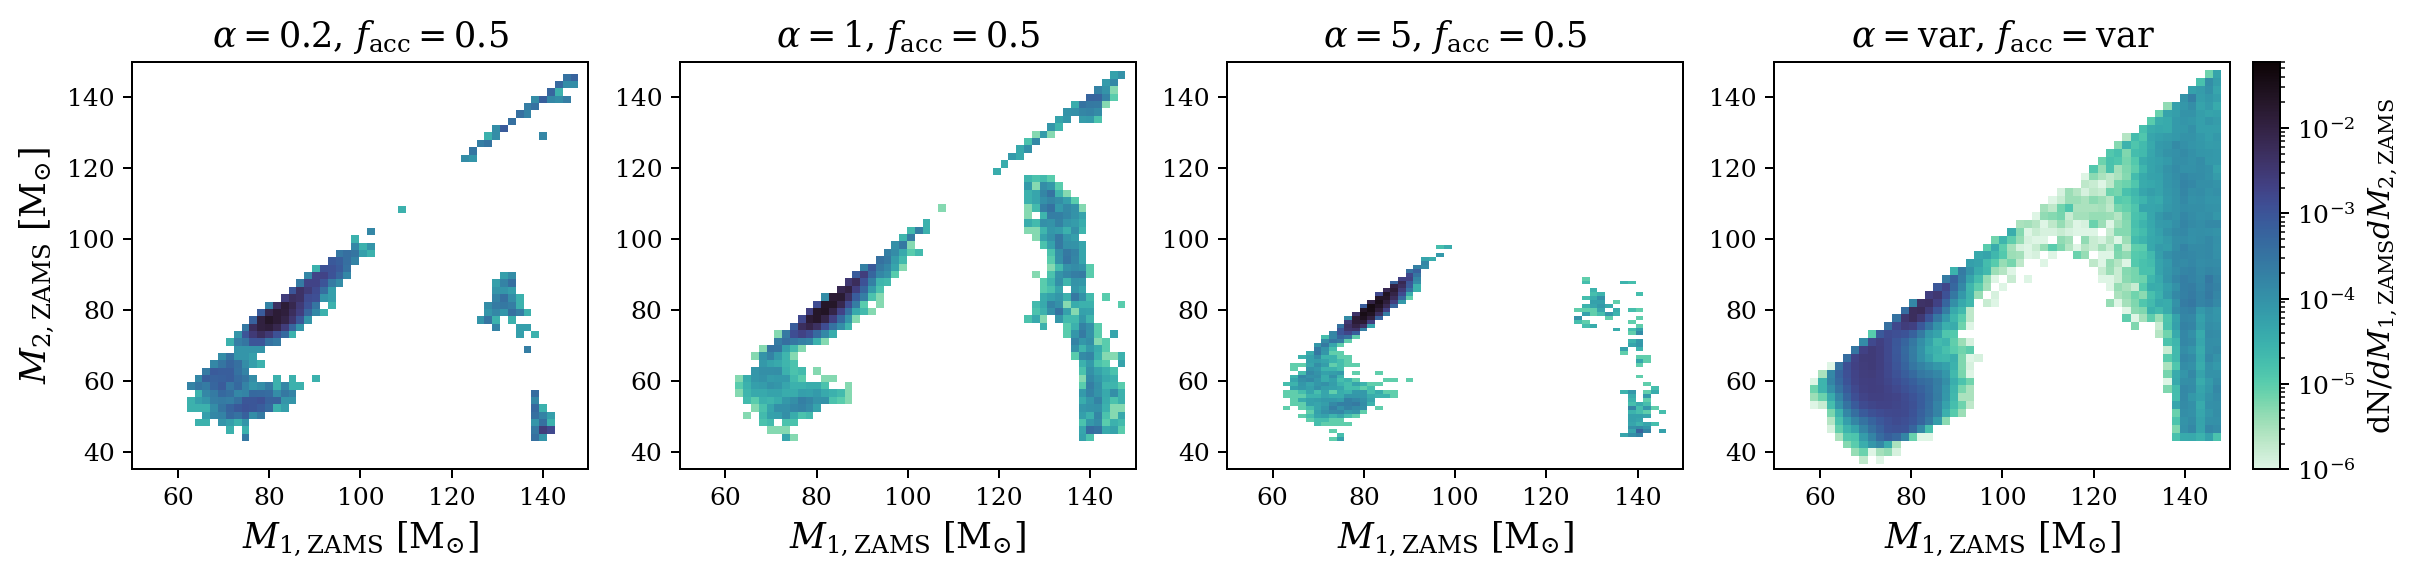
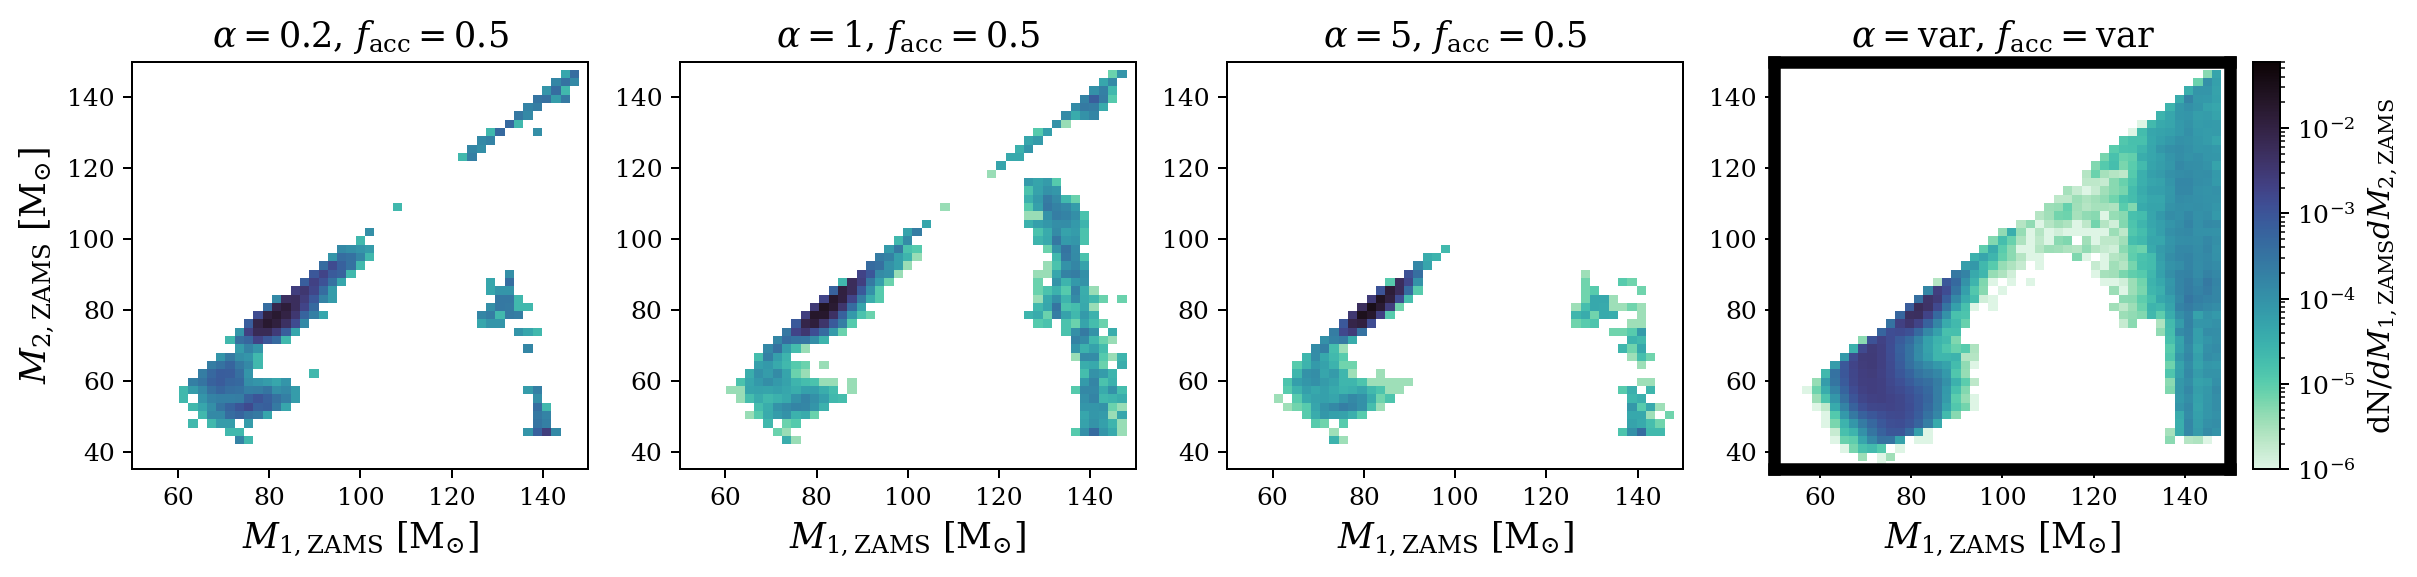
Merging in Katie's edits and Will's line-breaks.

diff --git a/src/ms.tex b/src/ms.tex
@@ -26,6 +26,7 @@
 \flatiron
 
 \author{Katelyn Breivik}
+\email{kbreivik@flatironinstitute.org}
 \flatiron
 
 \author{Will M. Farr}
@@ -74,9 +75,9 @@ systems, globular clusters, nuclear star clusters, AGN disks, and more
 population is studied through a Monte-Carlo approach.  Using theoretically
 motivated distributions of initial parameters (age, metallicity, masses, orbital
 separations, eccentricities, etc), initial populations are evolved with fixed
-astrophysical assumptions (population synthesis parameter settings)to produce a
-synthetic catalog of mergers which can be compared of observations from
-ground-based GW detectors.
+astrophysical assumptions (population synthesis parameter settings) to produce a
+synthetic catalog of mergers which can be compared to observations from
+GW detectors.
 
 
 
@@ -168,8 +169,9 @@ the implications of this work and future direction in Sec.
 \section{Method}
 \label{sec:method}
 
-We define the parameters that describe the progenitor's zero age main sequence (ZAMS) properties
-masses and eccentricity as progenitor parameters $\bm{\theta'}$, the parameters
+
+We define the progenitor's zero age main sequence (ZAMS) properties like
+mass, orbital period, and eccentricity as progenitor parameters $\bm{\theta'}$, the parameters
 that control different uncertain physical prescriptions such as wind strength and common
 envelope efficiency as hyperparameters $\bm{\lambda}$, and random variables
 that affect certain stochastic process such as whether CO natal kick unbinds a
@@ -279,7 +281,7 @@ check whether the KL divergence varies significantly. A varying KL divergence me
 to randomness in the evolution of the progenitor, and extra caution should be used when interpreting the result.
 
 
-\section{Result}
+\section{Results}
 \label{sec:result}
     
 \begin{table*}[hbt!]
@@ -337,14 +339,15 @@ the eccentricity $e$, the metallicity $Z$ at ZAMS. Note that the progenitor form
 obtained through the root-finding process because the formation redshift does not intrinsically affect 
 the evolution of the binary. Instead, we compute the time it takes for the binary to evolve from 
 formation to the merger and add this time back to the lookback time when a GW event is observed and limit the total 
-time to merger to by less than $13.7\,\rm{Gyr}$.
+time to merger to be less than $13.7\,\rm{Gyr}$.
 Using the total lookback time, we can compute the redshift of the binary at ZAMS formation following the 
-\kw{cite Planck 18} cosmological model.
-The main benefit of post-processing the redshift in this way is we do not rely on a particular assumption
+Planck 2018 cosmological model \citep{Planck2018}.
+The main benefit of post-processing the redshift in this way is that we do not rely on a particular assumption
 of star formation rate (SFR) distribution when we solve for the posterior distribution in redshift.
 This means we can put the prior on formation redshift (or in general, metallicity-redshfit distribution) in
 by reweighting the posterior distribution according to a particular SFR model,
-therefore we do not have to rerun the inference everytime we change the SFR model.
+\kb{and} therefore do not have to rerun the inference everytime we change the SFR model. This is especially helpful
+since SFR models are still highly uncertain but strongly impact the local merger rates of BBHs \citep{Broekgaarden2021}.
 For hyperparameters, we choose parameters that affect 
 binary evolution in \texttt{COSMIC} mostly significantly for massive stars, including the common envelope 
 efficiency $\alpha$, the fraction of mass accreted onto the accretor during stable mass transfer $f_{\rm acc}$, 
@@ -354,11 +357,53 @@ $q_{\rm crit,3}$, and the root-mean-square of the Maxwellian distribution
 employed for CO natal kicks, $\sigma$. 
 
 We show a portion of the joint posterior of the progenitor parameters 
-and hyperparameters of GW150914 in figure \ref{fig:GW150914_posterior}.
-\kb{We need to describe the interpretation of this as well.}
-\kw{I think we can just hightlight the fact that we have three kinds of correlation, progenitor-hyper, progenitor-hyper, hyper-hyper,
-since the implication is related to figure @Katie made.}
-\kb{Need to describe the formation channels and gaps here.}
+and hyperparameters of GW150914 in figure \ref{fig:GW150914_posterior}. 
+Each panel is colored based on the comparison between progenitor parameters (blue), hyperparameters (orange), or 
+a mix of the two (green). 
+We find that the choice for $\sigma$ does not affect the formation of GW150914-like BBHs. This is not unexpected 
+since we use the \citet{Fryer2012} delayed model which reduces the natal kick strength at BH formation based on the amount
+of fallback onto the proto-CO. In the case of GW150914-like BBHs, the BH progenitors are massive enough that the 
+fallback reduces the natal kick to zero. Because of this we do not include $\sigma$ in Figure~\ref{fig:GW150914_posterior}.
+Similarly, we do not include the ZAMS orbital period and eccentricity are correlated with one another, but not strongly with the other progenitor
+parameters or hyperparameters. We find strong correlations in the ZAMS masses, as well as 
+strong correlations between $M_{2,\rm{ZAMS}}$ and $f_{\rm{acc}}$ and $f_{\rm{acc}}$ and $\alpha$. We show scatter points of each of these 
+combinations in the upper-right inset of the figure.
+
+The correlations between the ZAMS masses are similar to those found by A21 with the majority of the population preferring primary 
+and secondary masses between $60--90\,M_{\odot}$. However, we also find some ZAMS masses which extend up to $150\,M_{\odot}$ which 
+is the limit imposed by our assumptions. We explore the formation scenarios which lead to successful GW150914-like mergers and those 
+which fail to produce GW150914-like mergers below in Figure~\ref{fig:compare_fixed_variable}.
+
+The correlations between $M_{2,\rm{ZAMS}}$ and $f_{\rm acc}$ illustrate the variety of ways which GW150914-like mergers can be produced.
+For binaries with $M_{2,\rm{ZAMS}} < 70\,M_{\odot}$, we find that accretion efficiencies of $f_{\rm acc} > 0.5$ 
+are preferred. One reason for this is based on the requirement that the total mass in the binary must remain above the 
+total mass of GW150914 and strongly non-conservative mass transfer (i.e. $f_{\rm acc} > 0.5$) reduces the total 
+mass of the system. A compounding factor is that as mass leaves the binary due to non-conservative mass transfer, the 
+evolution of the binary's orbit is less dramatic and leads to wider binaries on average and thus fewer mergers in a Hubble time.
+For binaries with $M_{2,\rm{ZAMS}} \sim 80\,M_{\odot}$, $f_{\rm acc}$ is less constrained. This is because of a preference for 
+these secondaries to also have primary masses near $ 80\,M_{\odot}$ and thus enter a double-core common envelope evolution in 
+which both stars' envelopes are ejected, leaving behind two stripped helium cores in a tight orbit. In this case, $f_{\rm acc}$ 
+does not affect the binary evolution and is thus unconstrained. This effect can also be seen in the ZAMS mass and $q_{\rm crit 3}$ 
+panels for masses near $80\,M_{\odot}$ because double-core common-envelope evolution is triggered in \texttt{COSMIC} when the
+radii of the two stars touch due to the rapid expansion of the primary star upon helium ignition. In this case, the choice for 
+Roche-overflow mass transfer to proceed stably (as prescribed by $f_{\rm{acc}}$) or unstably (as prescribed by $\alpha$) using 
+$q_{\rm crit, 3}$ is totally irrelevant, and thus unconstrained. Finally, for binaries with $M_{2,\rm{ZAMS}} > 80$, we find that 
+$f_{\rm acc}$ is correlated to decrease with increasing mass. This is due to limits on the total mass which must be ejected from 
+the binary to produce BH masses that match GW150914. Binaries with both component masses near $150\,M_{\odot}$ must either go 
+through a common envelope evolution (in which case $f_{\rm acc}$ is unconstrained), or very non-conservative mass transfer 
+(where $f_{\rm acc}$) is low, to produce BBHs with the proper mass.
+
+Finally, we find that $\alpha$ and $f_{\rm acc}$ are largely uncorrelated, though there exists independent trends in each hyper parameter.
+This is not totally unexpected since the physical processes which are described by each hyperparameter, i.e. stable Roche-lobe overflow and 
+common envelope evolution are two independent channels. Generally, we find that GW150914-like BBHs tend to prefer larger accretion efficiencies 
+and have common envelope ejection efficiencies peaking near $\alpha=1$. One shortcoming of our method implementation is the application of a single 
+hyper parameter for $f_acc$ and $\alpha$ for each binary, while both the primary and the secondary star could in principle be defined by their own 
+hyperparameters that prescribe the outcomes for when each star fills it's Roche lobe. We reserve full treatment of this for future work but note 
+that this improvement could reveal correlations between hyperparameters that are not present in our current analysis.
+%\kb{We need to describe the interpretation of this as well.}
+%\kw{I think we can just hightlight the fact that we have three kinds of correlation, progenitor-hyper, progenitor-hyper, hyper-hyper,
+%since the implication is related to figure @Katie made.}
+%\kb{Need to describe the formation channels and gaps here.}
 
 \begin{figure*}[h]
     \includegraphics[width=\textwidth]{static/GW150914_corner_zoomed_lowres.png}
@@ -383,16 +428,22 @@ since the implication is related to figure @Katie made.}
 % \kw{Talk about implication on single event posterior.}
 Once we obtain a set of binaries which successfully map the ZAMS parameters and hyperparameters to BBH merger masses, 
 we re-evolve the set of ZAMS parameters with the same physical assumptions as A21, but vary the common envelope efficiency 
-to explore how keeping a fixed model which only varies one hyper-parameter affects our analysis. 
+to explore how keeping a fixed model which only varies one hyper-parameter contrasts to our results. 
 Figure~\ref{fig:compare_fixed_variable} shows the distribution of ZAMS masses for three models (first through third columns), 
-each with a different $\alpha$ but the same hyperparameters as A21, 
-as well as the results of our sampling which allows our hyperparameters to vary (fourth column). We find that holding the accretion 
-efficiency, common envelope and natal kick physics to fixed values greatly reduces the ZAMS parameter space 
-that produces GW150914-like mergers. In contrast, by allowing the hyperparameters to fully span the model uncertainty, we 
+each with a different $\alpha$ but the same hyper-parameters as A21, 
+as well as the results of our sampling which allows our hyper-parameters to vary (fourth column). We find that holding the accretion 
+efficiency, $f_{\rm{acc}}$, and common envelope ejection efficiency, $\alpha$, to fixed values greatly reduces the ZAMS parameter space 
+that produces GW150914-like mergers. In contrast, by allowing the hyper-parameters to fully span the model uncertainty, we 
 find that there are distinct ZAMS parameters which produce GW150914-like mergers and conversely, ZAMS parameters which 
-fail to produce GW150914-like mergers \emph{regardless of our hyper-parameter choice.}
-\kw{@Katie, can you put a frame around the fourth column highlighting it is this work?}
-
+fail to produce GW150914-like mergers \emph{regardless of our hyper-parameter choice.} For primary ZAMS masses between 
+$\sim95-135\,M_{\odot}$ and secondary ZAMS masses between $\sim50-95\,M_{\odot}$, we find that there is no combination of accretion
+efficiency and common envelope ejection efficiency which produces merging BBHs that have masses consistent with GW150914's posteriors.
+In this region, if BBHs with masses consistent with GW150914's masses are produced through a combination of $\alpha$ and 
+$f_{\rm{acc}}$, they do not merge in a Hubble time. Conversely, in the region of the fourth column of Figure~\ref{fig:compare_fixed_variable}
+which does produce GW150914-like mergers, the combination of $\alpha$, $f_{\rm{acc}}$, and the ZAMS masses and orbital separations 
+balance to produce BHs with the correct masses that merge within a Hubble time.
+%\kw{@Katie, can you put a frame around the fourth column highlighting it is this work?}
+%\kb{done!}
 
 
 \begin{figure*}
@@ -410,8 +461,6 @@ In particular, we compute KL divergence of the samples obtained from root-findin
 For GW150914, the KL divergence between the reprojected posterior and the original posterior is \kw{fill later} nats on average if we use the root-finding result alone,
 whereas the MCMC result has a higher KL divergence at \kw{fill} nats.
 The KL divergence stays stable for reprojecting with different random seeds. 
-\kb{Can we show this in the figure somehow? Maybe like KL divergence as a function of reprojection number as a lower small panel?}
-\kw{The problem with that is it is basically one dot or a flat line, which is very unentertaining. I wouldn't necessarily want to make a figure out of the KL divergence just because it is pretty boring and distracting.}
 In fig.\ref{fig:GW150914_reprojection}, we can see the reprojected posterior from both the root-finding process alone and the MCMC result agrees well with the original posterior,
 even though the agreement between the MCMC result and the original posterior is not perfect. 
 This degradation of the agreement comes from the fact that we are using a KDE to estimate the posterior density in the observable space.
@@ -445,7 +494,8 @@ which can lead to a final system either with or without a merger event randomly,
 so the reprojected posterior may not agree with the original posterior in the observable space consistently, hence yielding a higher KL divergence on average.
 On the other hand, \texttt{COSMIC} struggles to produce events above the pair instability supernova mass cutoff $m_{1,{\rm GW}}$,
 so the posterior in the evolutionary parameter space only correspond part of the posterior in the observable space, therefore events beyond the PISN mass gap has higher KL divergence.
-Events with more extreme mass ratios are not likely to be recovered by the method. \kw{@Katie gives reason?}
+Events with more extreme mass ratios are not likely to be recovered by the method. This could be due to our method assuming a single value for $f_{\rm acc}$ and $\alpha$ as discussed 
+in Section~\ref{sec:result}.
 
 The point of figure \ref{fig:GWTC3_f_acc_mass} is to show this method could in principal reveal the correlation between progenitor parameters and hyperparameters on a population level.
 A careful treatment of all event in the catalog and discussion related the physical implication of figure \ref{fig:GWTC3_f_acc_mass} is beyond the scope of this paper,
@@ -477,14 +527,16 @@ In this work we first showcase the power of the proposed method with GW150914.
 We show the joint posterior of the two events' progenitor parameters and hyperparameters.
 In particular, to the authors' knowledge, this is the first time the correlation between progenitor parameters and hyperparameters is explored.
 Our work is not only a more efficient way to study GW events' progenitors,
-but also allows the possibility of measuring the astrophysics related the binary evolution, especially in capturing the correlation between different hyperparameters.
+but also allows the possibility of measuring the astrophysics related the binary evolution, especially in capturing the correlation between different hyperparameters. 
+In future work, we will extend our method to applying hyperparameters to individual binary components in order to better capture correlations between 
+hyperparameters and progenitor parameters. 
 
 To further illustrate the power of the method, we show the inferred fraction of accretion during SMT depends on the progenitor masses.
 The most obvious advantage our method provides is it returns the joint posterior distribution of progenitor parameters and hyperparameters for each event.
 This enables a data-driven way to study the distribution of hyperparameters,
 i.e. once we have a catalog of events, each has their own set of posterior in the hyper-parameter space,
 we can employ common techniques such as hierarchical Bayesian analysis to fit a population model to the distribution of hyperparameters,
-without making specific assumptions such as fixing the hyperparameters for all types of event.
+without making specific assumptions such as fixing the hyperparameters for all types of event. 
 
 % Rate analysis is now just counting, like what's done in phenomenological model, instead of forward modelling.
 Another perk of our method is the "rate" calculation is now independent of
@@ -576,10 +628,10 @@ but parameters about the evolutionary function.
 This means the binary evolution functions can be constrained on an individual event basis.
 We "back propagate" the posterior in the observable space to the evolutionary parameter space,
 thus allowing us to study hyperparameters and its correlation with progenitor parameters in a data-driven manner.
-Our method makes less assumption than the traditional forward modelling approach,
+Our method makes less assumptions than the traditional forward modelling approach,
 which often fix the hyperparameters across the entire population.
-Since we are not limited to the fix hyperparameters assumption, we can explore the behavior of the hyperparameters across the population much more efficiently.
-While our work lay down a data analysis pathway to understand the population of GW events,
+Since we are not limited to the fixed hyperparameters assumption, we can explore the behavior of the hyperparameters across the population much more efficiently.
+While our work lays down a data analysis pathway to understand the population of GW events,
 no physics can be learned without a comprehensive physical model.
 We hope this letter would motivate the community to build the next generation population synthesis codes that have the following properties:
 first, they should have explicit control over the random variables so marginalizing over random variables can be done more precisely;
